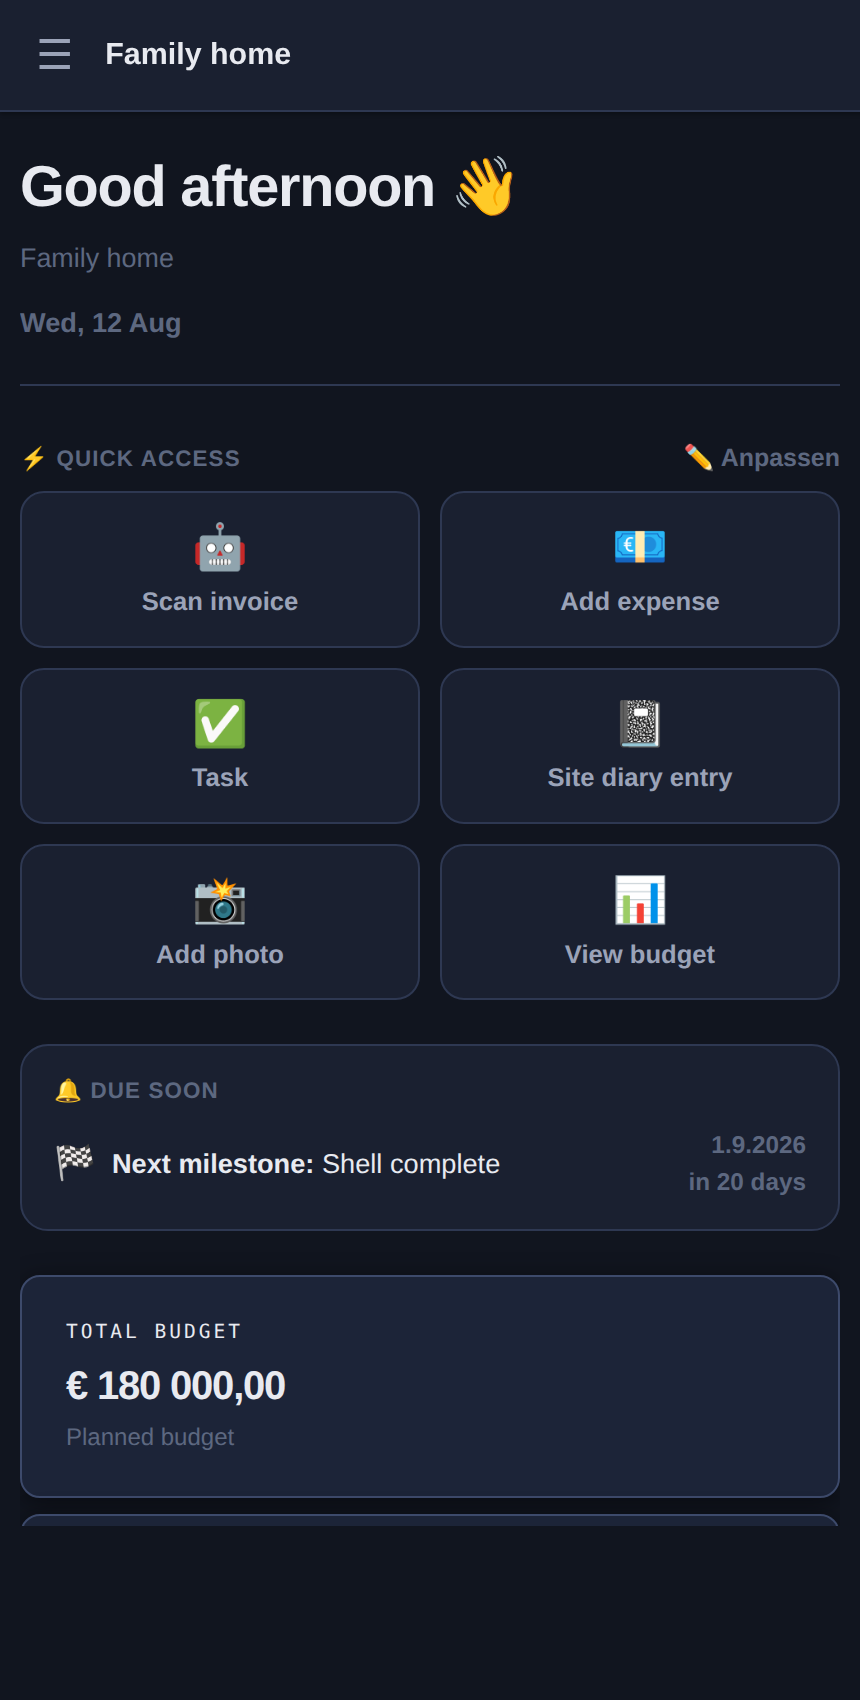
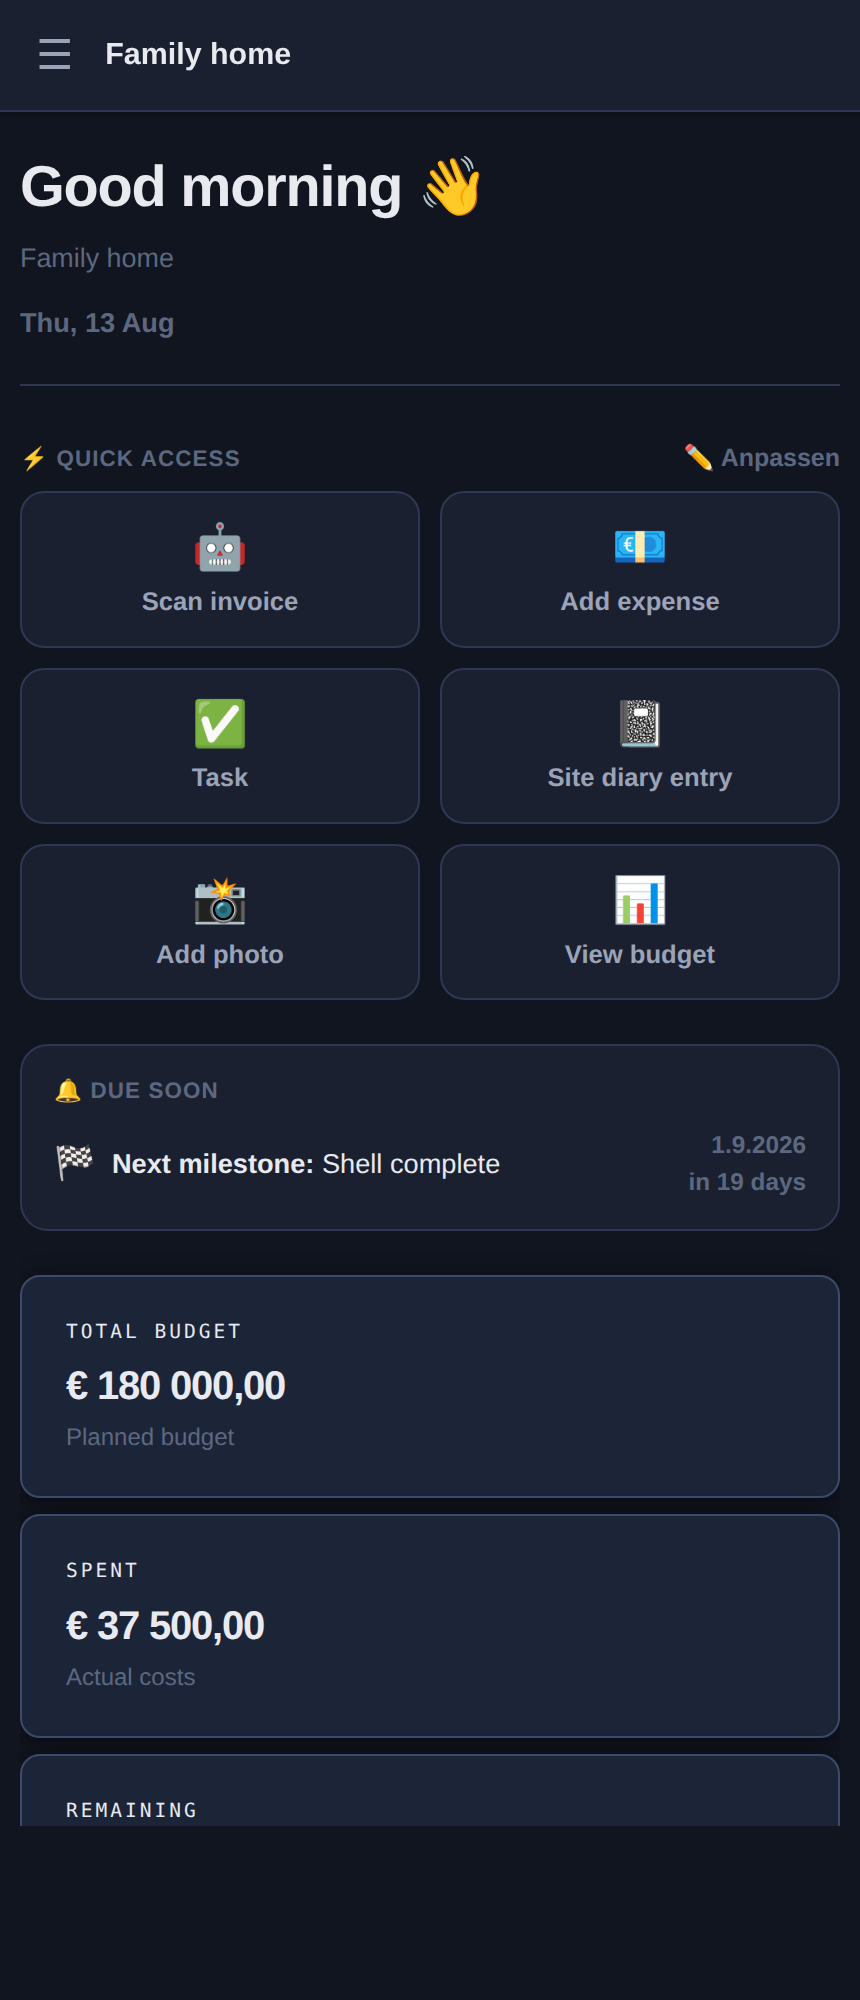
LIVE: Handy-Screenshot sauber zugeschnitten
Claude-Session: https://claude.ai/code/session_01XiPBiXQgXHbw1vEY1d18RQ

diff --git a/index.html b/index.html
@@ -2202,7 +2202,7 @@
     #landing-overlay .lp-phone{position:relative;width:266px;max-width:82%;margin:0 auto;background:#0b0d12;border-radius:46px;padding:11px;box-shadow:0 30px 70px rgba(0,0,0,.6),inset 0 0 0 2px #2b3040}
     #landing-overlay .lp-phone-top{height:30px;background:#1a2030;border-radius:35px 35px 0 0;position:relative}
     #landing-overlay .lp-island{position:absolute;top:8px;left:50%;transform:translateX(-50%);width:82px;height:17px;background:#000;border-radius:11px}
-    #landing-overlay .lp-phone img{width:100%;display:block;border-radius:0 0 35px 35px}
+    #landing-overlay .lp-phone img{width:100%;display:block;aspect-ratio:43/80;object-fit:cover;object-position:top center;border-radius:0 0 35px 35px}
     #landing-overlay .lp-shots{display:grid;grid-template-columns:repeat(auto-fit,minmax(240px,1fr));gap:16px;margin-top:12px}
     #landing-overlay .lp-shots figure{margin:0;background:var(--lp-surface);border:1px solid var(--lp-border);border-radius:14px;overflow:hidden}
     #landing-overlay .lp-shots img{width:100%;display:block;border-bottom:1px solid var(--lp-border)}

diff --git a/www/index.html b/www/index.html
@@ -2202,7 +2202,7 @@
     #landing-overlay .lp-phone{position:relative;width:266px;max-width:82%;margin:0 auto;background:#0b0d12;border-radius:46px;padding:11px;box-shadow:0 30px 70px rgba(0,0,0,.6),inset 0 0 0 2px #2b3040}
     #landing-overlay .lp-phone-top{height:30px;background:#1a2030;border-radius:35px 35px 0 0;position:relative}
     #landing-overlay .lp-island{position:absolute;top:8px;left:50%;transform:translateX(-50%);width:82px;height:17px;background:#000;border-radius:11px}
-    #landing-overlay .lp-phone img{width:100%;display:block;border-radius:0 0 35px 35px}
+    #landing-overlay .lp-phone img{width:100%;display:block;aspect-ratio:43/80;object-fit:cover;object-position:top center;border-radius:0 0 35px 35px}
     #landing-overlay .lp-shots{display:grid;grid-template-columns:repeat(auto-fit,minmax(240px,1fr));gap:16px;margin-top:12px}
     #landing-overlay .lp-shots figure{margin:0;background:var(--lp-surface);border:1px solid var(--lp-border);border-radius:14px;overflow:hidden}
     #landing-overlay .lp-shots img{width:100%;display:block;border-bottom:1px solid var(--lp-border)}
